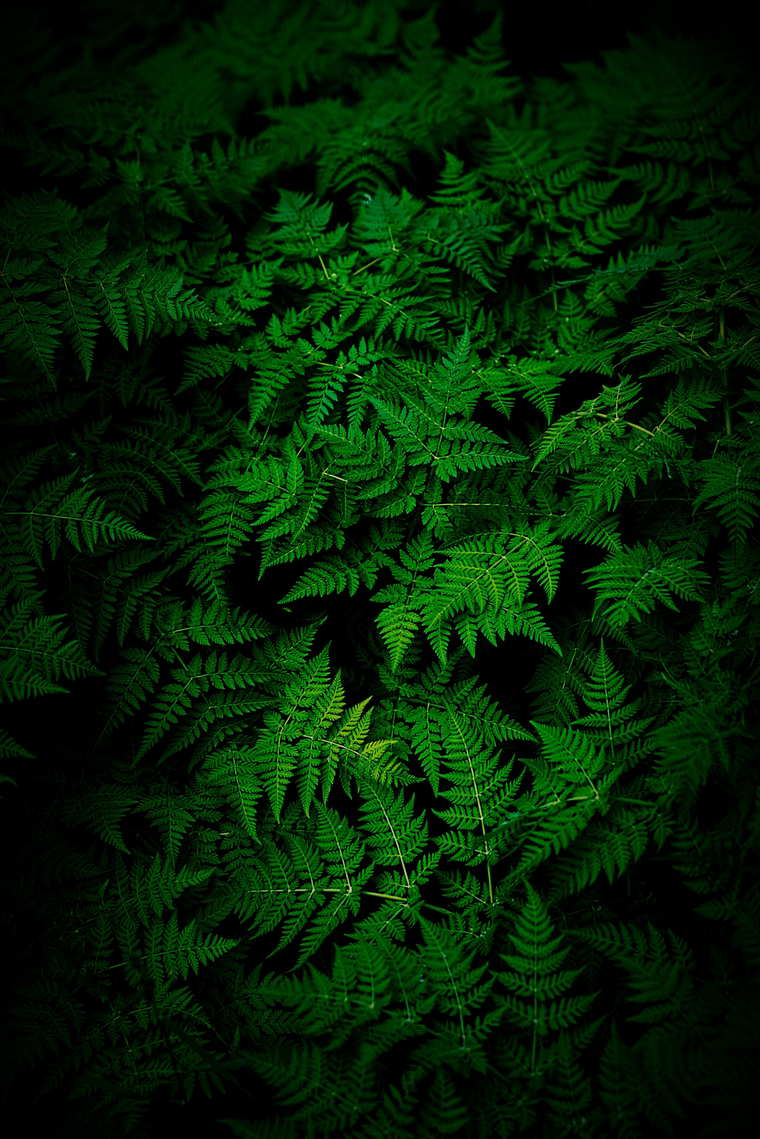
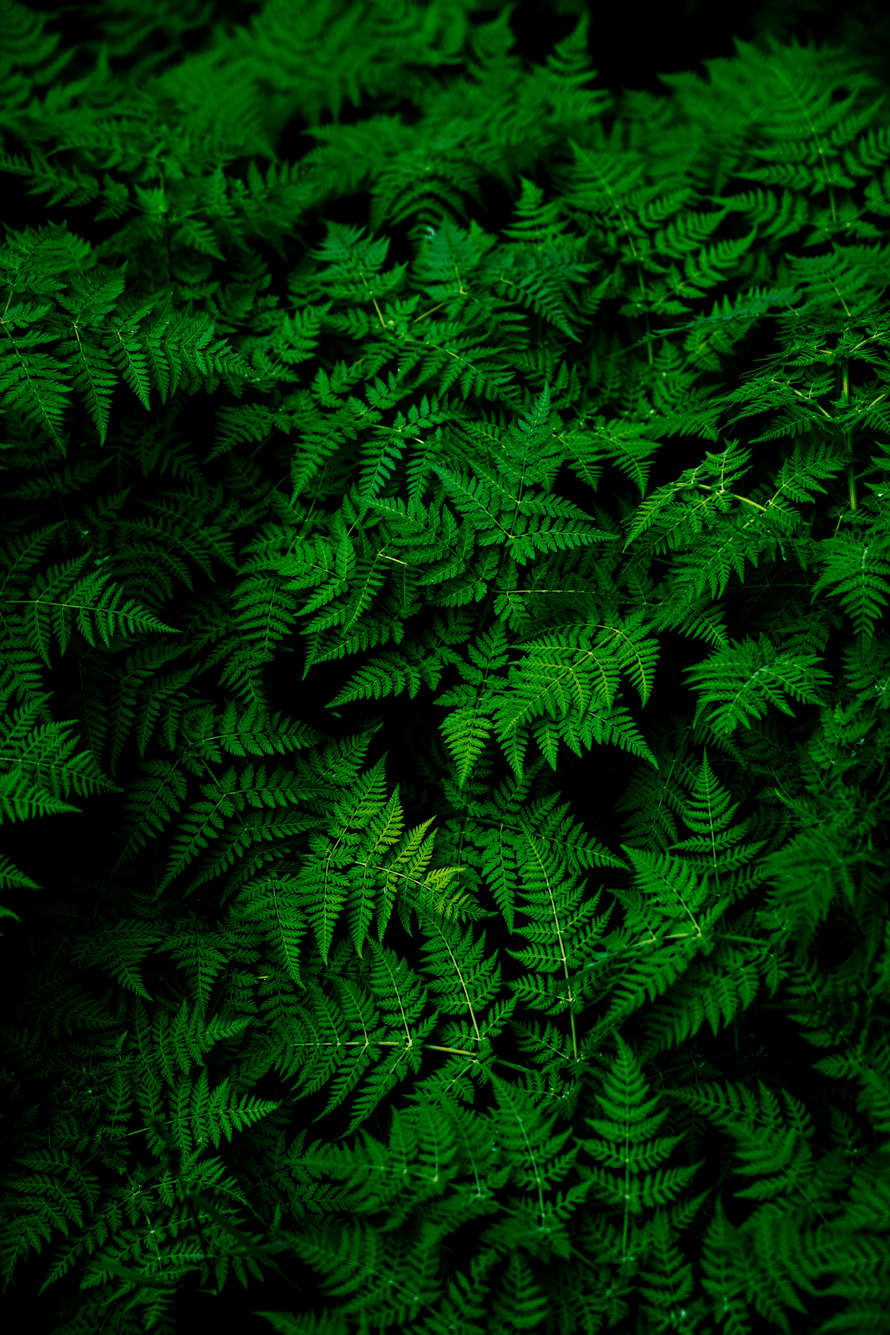
Add Mobile bg

diff --git a/989/989.css b/989/989.css
@@ -14,10 +14,10 @@ html {
     height: 100%;
     margin: 0;
     font-family: 'Exo 2', sans-serif;
-}
-
-.bg {
-  height: 100%;
+  }
+  
+.bg1 {
+  height: 1200px;
   background-position: center;
   background-repeat: no-repeat;
   background-size: cover;
@@ -25,10 +25,16 @@ html {
   z-index: -1;
 }
 
+.bg2 {
+  display: none;
+}
+
 body {
     display: flex;
     align-items: center;
     justify-content: center;
+    /* background-color:black;
+    z-index: -2; */
 }
 
 h1 {
@@ -83,5 +89,12 @@ h1:focus {
   }    
 }
 
-
-https://codepen.io/erikjung/pen/XdWEKE
+@media only screen and (max-width: 600px) {
+  .bg1 {
+    display: none;
+  }
+  .bg2 {
+    display: block;
+    width: 600px;
+  }
+}

diff --git a/989/989.html b/989/989.html
@@ -11,7 +11,8 @@
 
 <body>
     <h1 contenteditable spellcheck="false">989</h1>
-    <img class="bg" src="plants3.jpg" alt="">
+    <img class="bg1" src="plants.jpg" alt="">
+    <img class="bg2" src="plants2.jpg" alt="">
     <!-- <script src="989.js"></script> -->
 </body>
 
